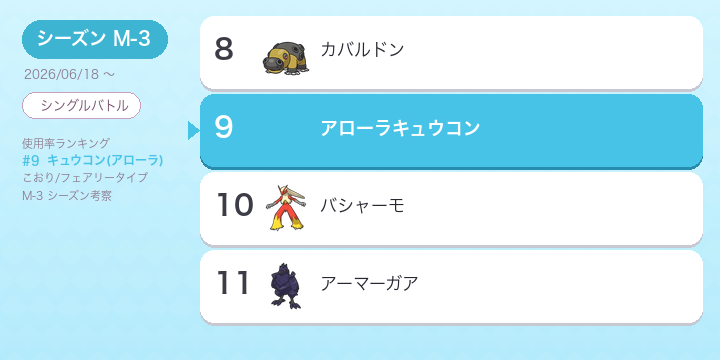
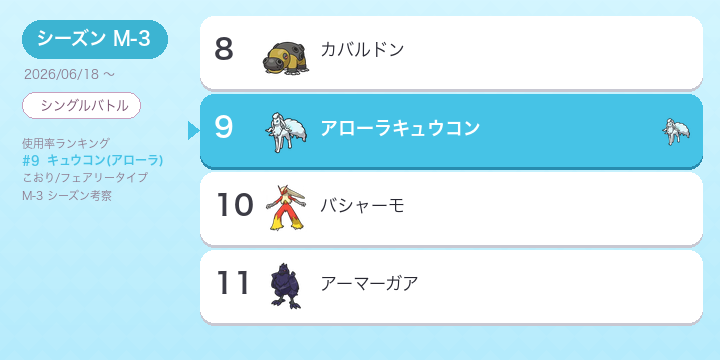
fix: アローラキュウコンヒーロー画像のアイコン修正・フォームマッピング追加

Changed region(s): [[0.3667, 0.3056, 0.4278, 0.4278], [0.9167, 0.3361, 0.9778, 0.3972]]

diff --git a/scripts/generate_hero_m3.py b/scripts/generate_hero_m3.py
@@ -44,6 +44,7 @@ TYPE_PALETTE = {
 # 記事スラッグ → DBポケモン名（名前差異の吸収）
 SLUG_TO_DBNAME = {
     "raichu-y": "ライチュウ",
+    "ninetales-alola": "アローラキュウコン",
 }
 
 def get_font(size, bold=False):
@@ -154,9 +155,17 @@ def main():
     conn = sqlite3.connect(str(DB))
     cur  = conn.cursor()
 
+    FORM_OVERRIDE = {
+        "アローラキュウコン": "0038-01",
+        "アローラロコン":     "0037-01",
+        "アローラナッシー":   "0103-01",
+        "アローラガラガラ":   "0105-01",
+    }
+
     dexmap = {}
     for r in cur.execute("SELECT pokemon_name, dex_number, form_index FROM pokemon_base_stats"):
         dexmap[r[0]] = f"{int(r[1]):04d}-{int(r[2]):02d}"
+    dexmap.update(FORM_OVERRIDE)
 
     latest = cur.execute(
         "SELECT MAX(crawled_date) FROM pokemon_usage WHERE season=? AND rule='single'", (SEASON,)
